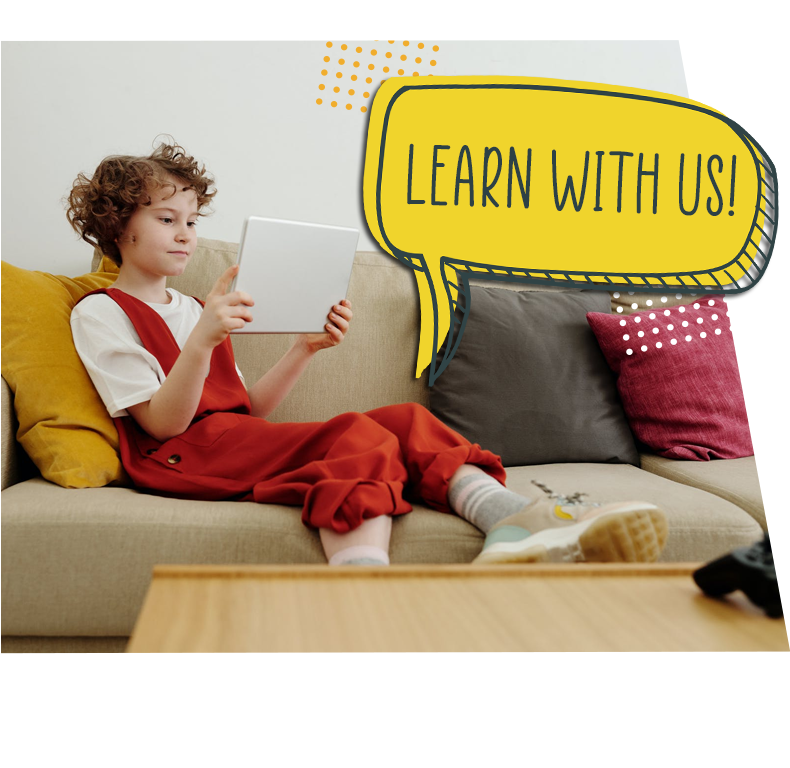
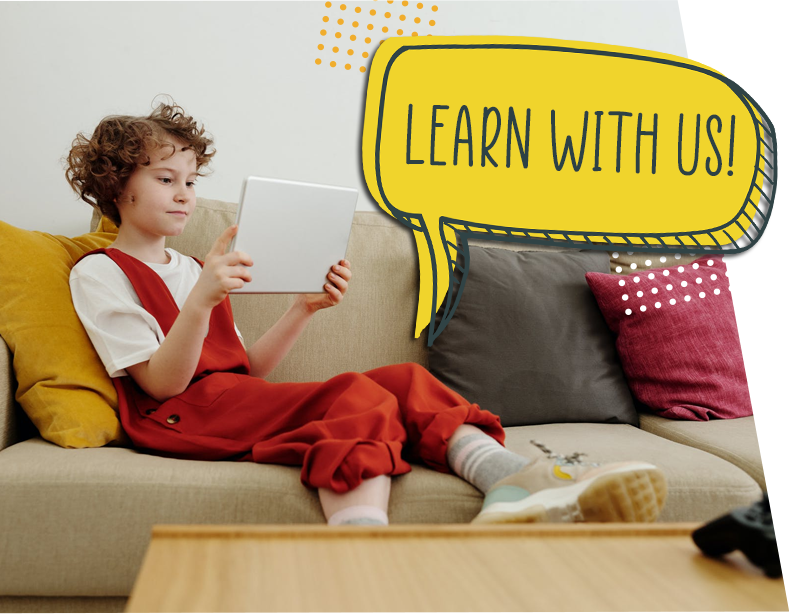
Added services

diff --git a/src/components/services.vue b/src/components/services.vue
@@ -1,7 +1,31 @@
 <template>
-<div class="services">
-	<img src="@/assets/images/learn_with_us.png">
-</div>
+<b-card id="services" class="services" no-body>
+	<b-row no-gutters>
+		<b-col md="8">
+			<b-card-img src="@/assets/images/learn_with_us.png" alt="img_learn">
+			</b-card-img>
+		</b-col>
+
+		<b-col md="4" align-self="center">
+			<b-card-body>
+				<b-card-text class="content">
+					<h1>{{ title }}</h1>
+					<hr>
+					<h5>{{ subtitle }}</h5>
+					<ul class="list"
+						v-for="(item, i) in items" :key="i">
+						<li>{{ item }}</li>
+					</ul>
+
+					<b-button class="btn" :href="button.href" variant="primary">
+						<b-icon-info-circle class="icon"></b-icon-info-circle>
+						{{ button.title }}
+					</b-button>
+				</b-card-text>
+			</b-card-body>
+		</b-col>
+	</b-row>
+</b-card>
 </template>
 
 <script>
@@ -9,15 +33,57 @@ export default {
 	name: "Services",
 	data: function() {
 		return {
-
+			title: "What We Offer",
+			subtitle: "List of the courses we provide",
+			items: [
+				"Phonetic and alphabet",
+				"Daily conversational topics for adults and young learners",
+				"Job interviews",
+				"Reading (beginner to advance)",
+				"English proficiency exams like IELTS (Speaking and writing) TOIEC, TOFL and CELPIP, etc.",
+				"Business English",
+				"Accent/ pronunciation training",
+				"Grammar",
+			],
+			button: {
+				title: "Learn More",
+				href: "/services"
+			}
 		}
 	}
 }
 </script>
 
 <style lang="scss" scoped>
+$title-gap: 16px;
+
 .services {
-	background-color: red;
-	border: 1px solid blue;
+	.content {
+		padding: $title-gap;
+
+		h1 {
+			font-family: "PalanquinDark";
+			text-align: center;
+		}
+
+		h5 {
+			font-family: "PalanquinDark";
+			text-align: center;
+			margin-bottom: 24px;
+		}
+
+		.list {
+			font-family: "Quicksand";
+			font-weight: 500;
+		}
+
+		.btn {
+			padding: 8px;
+		}
+
+		.icon {
+			margin-right: 4px;
+		}
+	}
 }
 </style>

diff --git a/src/components/header.vue b/src/components/header.vue
@@ -6,6 +6,12 @@
 				<div class="title">{{ item.title }}</div>
 				<div class="subtitle">{{ item.subtitle }}</div>
 				<div class="caption">{{ item.caption }}</div>
+
+				<b-button class="btn" :href="button.href" variant="dark">
+					<b-icon-heart class="icon">
+					</b-icon-heart>
+					{{ button.title }}
+				</b-button>
 			</div>
 		</swiper-slide>
 
@@ -71,6 +77,11 @@ export default {
 						this.current_slide = this.$refs.swiper.$swiper.activeIndex;
 					}
 				}
+			},
+
+			button: {
+				title: "Affordable Price at $3.99/25 min",
+				href: "/get_started",
 			}
 		}
 	},
@@ -103,6 +114,10 @@ export default {
 		background-position: right;
 		background-size: 1280px 720px;
 		background-repeat: no-repeat;
+
+		.btn {
+			margin-top: 24px;
+		}
 
 		&.slide-0 {
 			background-image: url("../assets/images/header1.jpg");
@@ -157,7 +172,7 @@ export default {
 		.title, .subtitle, .caption {
 			padding: 8px;
 			color: black;
-			text-shadow: 0px 0px 8px black;
+			text-shadow: 0px 0px 8px grey;
 			background-color: rgba(255, 255, 255, 0.8);
 		}
 
@@ -174,6 +189,14 @@ export default {
 		&.slide-2 {
 			background-image: url("../assets/images/header3-mobile.jpg");
 			background-position: center;
+		}
+	}
+}
+
+@media screen and (max-width: 432px) {
+	.swiper .swiper-slide {
+		&.slide-1 {
+			background-position: right;
 		}
 	}
 }

diff --git a/src/components/navbar.vue b/src/components/navbar.vue
@@ -1,6 +1,6 @@
 <template>
 <b-navbar toggleable="lg" type="dark" :sticky=true>
-	<b-navbar-brand href="/home" v-ripple>{{ site_name }}</b-navbar-brand>
+	<b-navbar-brand :href="home" v-ripple>{{ site_name }}</b-navbar-brand>
 	<b-navbar-toggle target="nav-collapse">
 		<template v-slot:default="{ expanded }">
 			<b-icon v-if="expanded" icon="caret-up-fill"></b-icon>
@@ -13,7 +13,7 @@
 			<b-nav-item
 				v-ripple
 				v-for="(item, i) in items" :key="i"
-				:to="item.route"
+				:href="item.route"
 				:title="item.title"
 				:active="get_route == item.route || get_route == item.route2">
 				<b-icon class="nav-icon" :icon="item.icon"></b-icon>
@@ -39,30 +39,31 @@ export default {
 
 	data: function() {
 		return {
+			home: "/",
 			items: [
 				{
-					route: "/home",
+					route: "#home",
 					route2: "",
 					title: "Home",
 					icon: "house-fill",
 				},
 				{
-					route: "/services",
+					route: "#services",
 					title: "Services",
 					icon: "briefcase-fill",
 				},
 				{
-					route: "/teachers",
+					route: "#teachers",
 					title: "Teachers",
 					icon: "people-fill",
 				},
 				{
-					route: "/about",
+					route: "#about",
 					title: "About",
 					icon: "info-circle-fill",
 				},
 				{
-					route: "/contacts",
+					route: "#contacts",
 					title: "Contacts",
 					icon: "telephone-fill",
 				},

diff --git a/src/views/home.vue b/src/views/home.vue
@@ -3,22 +3,20 @@
 	<Header />
 
 	<div class="body">
-		<b-container fluid="md">
-			<!-- <Services /> -->
-		</b-container>
+		<Services />
 	</div>
 </div>
 </template>
 
 <script>
 import Header from "@/components/header.vue"
-// import Services from "@/components/services.vue"
+import Services from "@/components/services.vue"
 
 export default {
 	name: "Home",
 	components: {
 		Header,
-		// Services,
+		Services,
 	},
 }
 </script>
@@ -27,12 +25,14 @@ export default {
 @import "@/assets/styles/variables.scss";
 
 .body {
-	margin: $body-gap;
+	margin-top: $body-gap;
+	margin-bottom: $body-gap;
 }
 
 @media screen and (max-width: 992px) {
 	.body {
-		margin: $body-gap-sm;
+		margin-top: $body-gap-sm;
+		margin-bottom: $body-gap-sm;
 	}
 }
 </style>

diff --git a/vue.config.js b/vue.config.js
@@ -1,5 +1,22 @@
 module.exports = {
-    publicPath: process.env.NODE_ENV === 'production'
-    ? '/zion-english-vue/'
-    : '/'
+    publicPath: process.env.NODE_ENV === 'production' ? '/zion-english-vue/' : '/',
+    chainWebpack: config => {
+    	config.module.rule("vue").use("vue-loader").loader("vue-loader")
+			.tap(options => {
+				options.transformAssetUrls = {
+					img: "src",
+					image: "xlink:href",
+					'b-avatar': 'src',
+					'b-img': 'src',
+					'b-img-lazy': ['src', 'blank-src'],
+					'b-card': 'img-src',
+					'b-card-img': 'src',
+					'b-card-img-lazy': ['src', 'blank-src'],
+					'b-carousel-slide': 'img-src',
+					'b-embed': 'src'
+				}
+
+				return options;
+			})
+    }
 }
